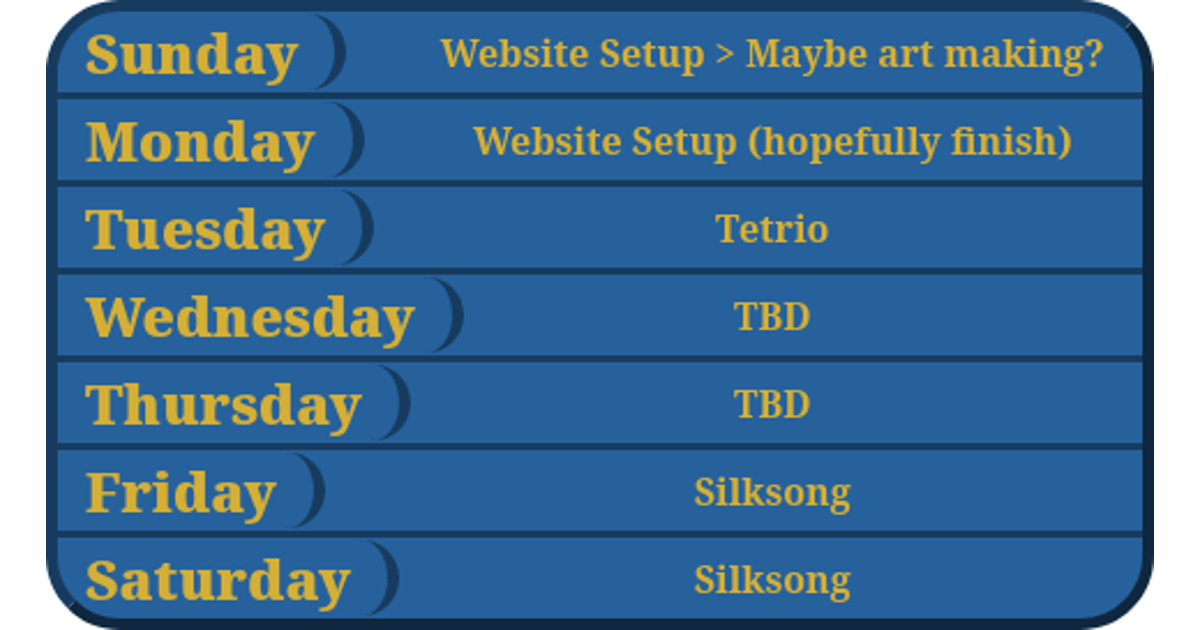
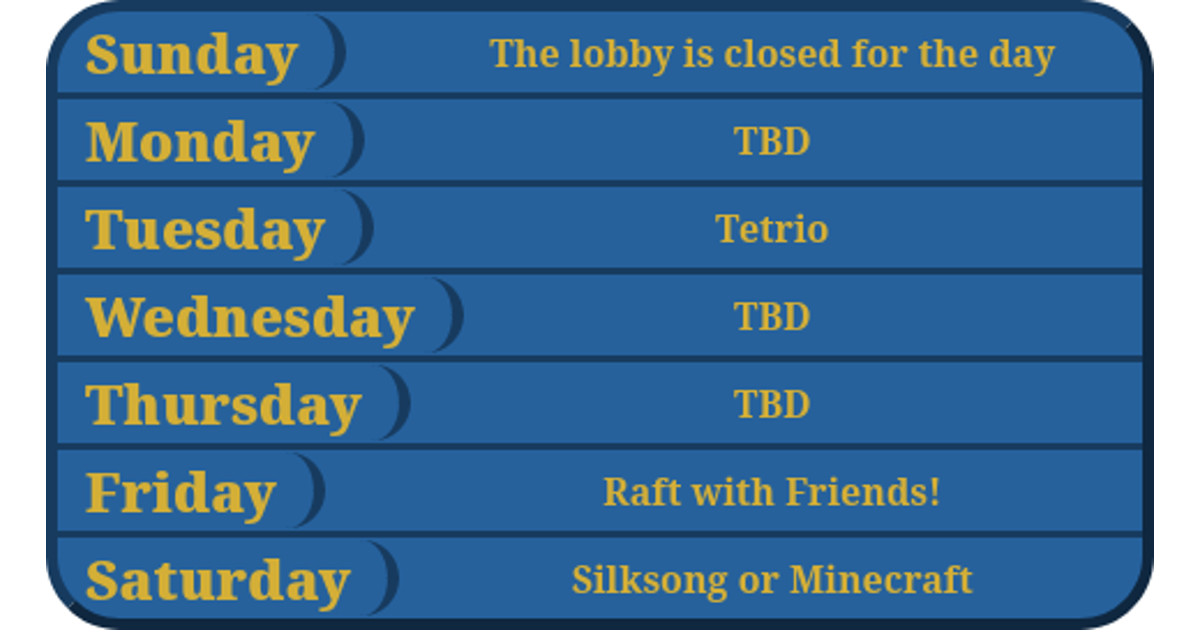
UPDATED TIMEZONE SHENANIGANS

diff --git a/schedule/js/main.js b/schedule/js/main.js
@@ -1,5 +1,15 @@
 let schedule = document.getElementsByClassName("row");
-const startTime=new Date("2025-10-01T17:00:00-05:00");
+const startTime=new Date("2025-10-01T17:00:00-06:00");
+
+//DO NOT USE ELSEWHERE!!!!!!!
+const Sunday = new Date("2025-11-08T17:00:00-06:00");
+console.log
+
+for (var i=0; i < schedule.length; i++) {
+  Sunday.setDate(Sunday.getDate() + 1);
+  schedule[i].getElementsByClassName("day")[0].innerHTML = Sunday.toLocaleDateString("en-US", { weekday: "long" });
+}
+
 const time = startTime.toLocaleTimeString('en-US', {
     hour: 'numeric',
     minute: '2-digit',
@@ -8,8 +18,13 @@ const time = startTime.toLocaleTimeString('en-US', {
 
 document.getElementById("timeStamp").innerHTML = time;
 
-const current = new Date();
+var current = new Date();
+console.log(current);
+console.log(current.toLocaleString("en-US", {timeZone: 'America/Chicago'}));
+console.log(Date.parse(current.toLocaleString("en-US", {timeZone: 'America/Chicago'})));
 current=new Date(Date.parse(current.toLocaleString("en-US", {timeZone: 'America/Chicago'})));
+
+
 
 for (let i=0; i < schedule.length; i++) {
     if (i<current.getDay()) {

diff --git a/schedule/index.html b/schedule/index.html
@@ -21,7 +21,7 @@
           <td class="day">Sunday</td><td class="plans">The lobby is closed for the day</td>
         </tr>
         <tr class="row">
-          <td class="day">Monday</td><td class="plans">TBD</td>
+          <td class="day">Monday</td><td class="plans">Blender Stream</td>
         </tr>
         <tr class="row">
           <td class="day">Tuesday</td><td class="plans">Tetrio</td>
@@ -33,10 +33,10 @@
           <td class="day">Thursday</td><td class="plans">TBD</td>
         </tr>
         <tr class="row">
-          <td class="day">Friday</td><td class="plans">Raft with Friends!</td>
+          <td class="day">Friday</td><td class="plans">7 days to die w/ friends</td>
         </tr>
         <tr class="row">
-          <td class="day">Saturday</td><td class="plans">Silksong or Minecraft</td>
+          <td class="day">Saturday</td><td class="plans">Whatever im feeling</td>
         </tr>
       </table>
       <hr class="divide">
